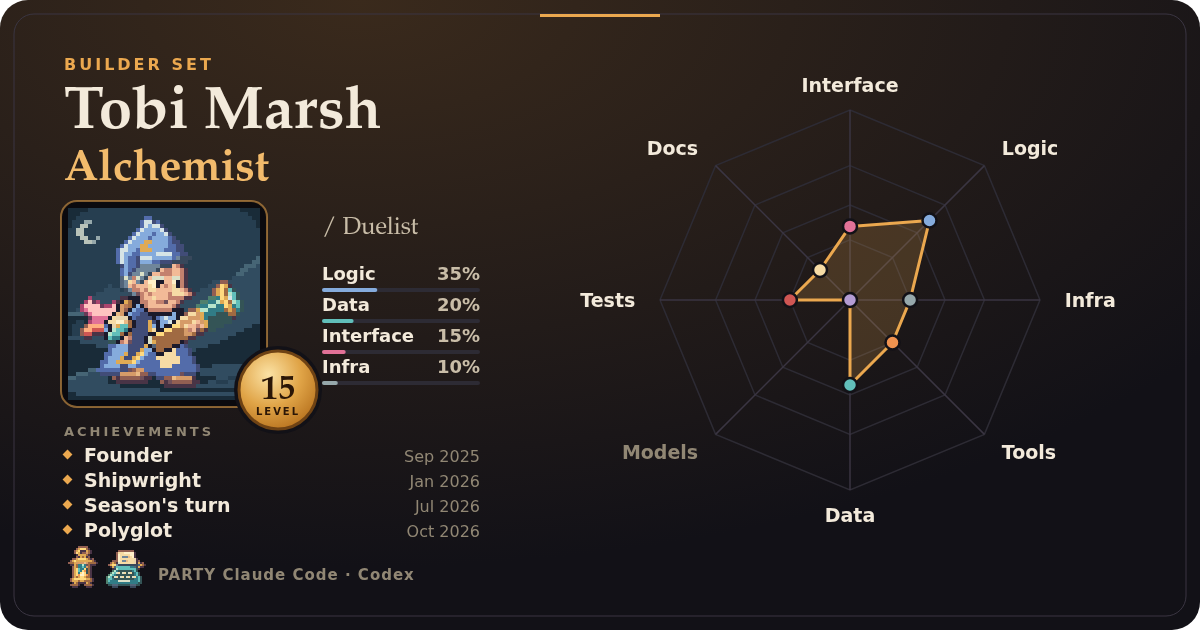
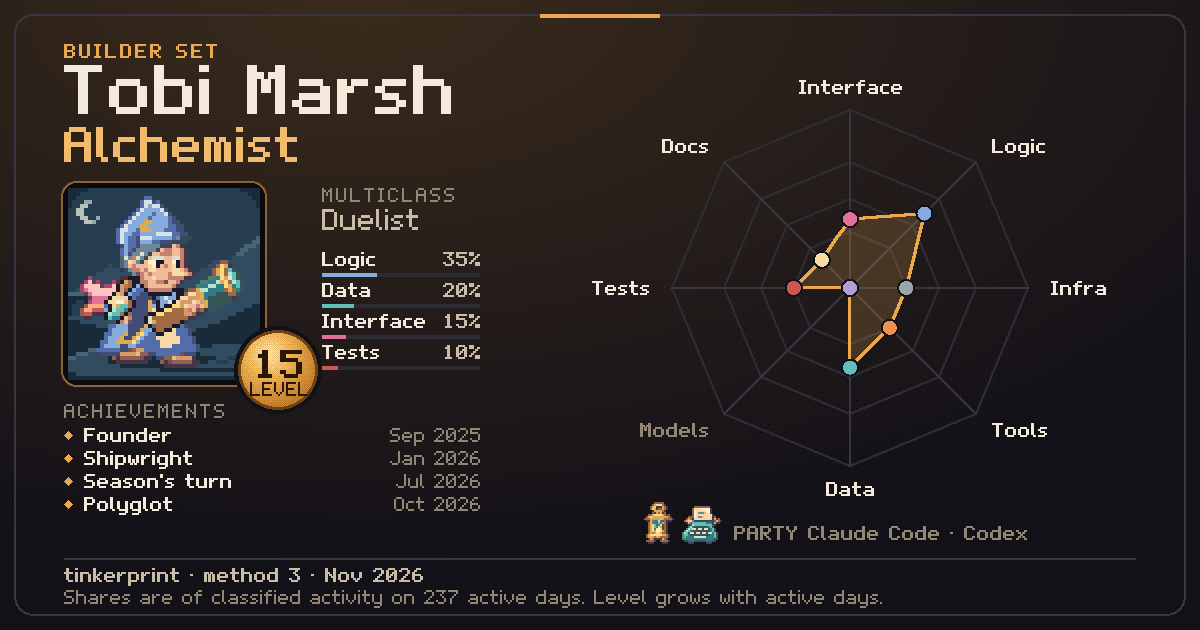
Show card.png in the README, and say what a card reveals
A Sharing section says which file to post, what build prints, what the
[card] options do and what a card reveals: the level is a band of
active days, the footer gives the season's exact count, and the
earliest achievement months show when you started. It describes the
sheet's share view. docs/card.png is now the demo's card.png. METHOD.md
lists both card files, the hide option, the tie rule and the audit's
PNG check.

Claude-Session: https://claude.ai/code/session_01BXxzvsAxGdctTVcthoTJy9

diff --git a/README.md b/README.md
@@ -12,9 +12,9 @@ A private sheet, one HTML file per profile. Here are the demo's two invented peo
 
 ![Sheet for Wren Aldous, an invented tinkerer, in the dark theme](docs/wren.png)
 
-And a share card that carries only what you allow:
+And a share card, `card.png`, that carries only what you allow:
 
-![Share card for Tobi Marsh: pixel portrait with level seal, class, rounded shares, achievements, party familiars and a radar](docs/card.png)
+![Share card for Tobi Marsh, an invented developer: Alchemist with Duelist as multiclass, level 15, a pixel portrait, top stats Logic 35%, Data 20%, Interface 15% and Tests 10%, four achievements by month, a radar, Claude Code and Codex in the party, and a footer naming tinkerprint](docs/card.png)
 
 ## Install
 
@@ -55,15 +55,46 @@ For your own sheet:
 ```
 tinkerprint init      # writes tinkerprint.toml, with your name and email from git config
                       # then edit it: your other emails, and one [[project]] per project
-tinkerprint build     # sheet.html, card.svg, sheet.json
-tinkerprint audit     # every text string in the built card.svg
+tinkerprint build     # sheet.html, card.png, card.svg, sheet.json
+tinkerprint audit     # every text string in the built card, before you share it
 ```
 
 `build` and `audit` use `./tinkerprint.toml` when `--profile` is left out. Keep the profile outside your repos: it lists your folders and emails. A misspelled key, like `[[projects]]`, stops the build and names the right one.
 
 `tinkerprint gallery --out art` writes one page with every class portrait of both sets, every familiar, icon and a few banners. The art is pixel art made in code from a pack of parts, and `--art-pack` swaps the pack. See [docs/ART.md](docs/ART.md).
 
-`build` takes `--season FROM:TO` to set the season and `--as-of DATE` to ignore anything later. Without `--out`, sheets go to a folder under `~/.local/share/tinkerprint/sheets/` named for the profile file. Each build writes `sheet.json`, `changes.json`, `sheet.html` and `card.svg`, plus `portrait.png` when the card is on. `python -m tinkerprint` works too. See `examples/profile.example.toml` for every profile option.
+`build` takes `--season FROM:TO` to set the season and `--as-of DATE` to ignore anything later. Without `--out`, sheets go to a folder under `~/.local/share/tinkerprint/sheets/` named for the profile file. Each build writes `sheet.json`, `changes.json` and `sheet.html`, plus `card.png`, `card.svg` and `portrait.png` when the card is on. `python -m tinkerprint` works too. See `examples/profile.example.toml` for every profile option.
+
+## Sharing
+
+Post `card.png`. Discord and most social sites show it as a preview, and they do not preview SVG. `card.svg` draws the same thing. `portrait.png` is the portrait alone, for an avatar.
+
+After each build, `shows` lists exactly what the card holds, and `alt` is a line of alt text to paste with it. Run `tinkerprint audit` before you share: it prints every string in `card.svg`, and checks that `card.png` holds image data only and draws the same fields.
+
+What a card reveals:
+
+- **Your name**, or a handle you choose.
+- **Your class and multiclass**, from the season's shares rounded to 5%.
+- **Your level**, a band of active days over all history: level 15 means 225 to 255 days. The footer gives the exact count of active days in the season.
+- **Achievement months.** The earliest ones show roughly when you started.
+- **Your party**: which coding agents you used, never how much.
+- **The season** of a season build, the month it was built, and the method version.
+
+Nothing else: no project names, exact dates, hours, repos, paths or emails, unless `show` adds dates or project names.
+
+The `[card]` table in the profile:
+
+```
+[card]
+enabled = true                # on by default, off by default when work = true
+name = "quillwork"            # a handle for the card. The sheet keeps your name.
+hide = ["party", "level", "achievements"]  # any of these stay off the card
+show = ["dates", "projects"]  # exact dates and up to three project names go on the card
+```
+
+Hiding the level also hides the day counts, since they give the same band away. `allow = true` still turns the card on for a work profile.
+
+People often screenshot the sheet instead. The sheet's **Share view** button hides everything the card would not show and leaves the workshop banner, the card's name, class, level and top stats. It works without script, with the keyboard and by touch.
 
 ## If your sheet is empty
 
@@ -95,9 +126,9 @@ The full rules are in [METHOD.md](METHOD.md). Every sheet prints the method vers
 
 ## Profiles
 
-One person can keep several sheets. A profile says which folders and identities belong to it, and what names the sheet shows. A day-job profile next to a personal one makes a good comparison. Mark it `work = true` and it never makes a share card unless you allow it.
+One person can keep several sheets. A profile says which folders and identities belong to it, and what names the sheet shows. A day-job profile next to a personal one makes a good comparison. Mark it `work = true` and it makes no share card unless you turn one on.
 
-Each build saves its sheet outside every repo, under `~/.local/share/tinkerprint/`. The next build compares with the newest saved sheet from an earlier date and writes `changes.json`. The sheet shows what changed since then, with a link to it under your name. When you changed the profile's projects, roots or identity in between, it says so, since the difference then includes history you added or removed. After an update that changes the method, it says the two sheets are not compared. `sheet.json` never depends on that history: the same logs, the same kept sessions from deleted logs and the same profile give the same file.
+Each build saves its sheet outside every repo, under `~/.local/share/tinkerprint/`. The next build compares with the newest saved sheet from an earlier date and writes `changes.json`. The sheet shows what changed since then, with a link to it under your name. When you changed the profile's projects, roots or identity in between, it says so, since the difference then includes history you added or removed. After an update that changes the method, it says the two sheets are not compared. `sheet.json` never depends on that history: the same logs, the same kept sessions from deleted logs and the same profile give the same file, apart from the month the card says it was built.
 
 ## What stays on disk
 

diff --git a/METHOD.md b/METHOD.md
@@ -165,12 +165,13 @@ Pictures follow class shape only: the class, its stats ranked by share rounded t
 
 ## Outputs
 
-- `sheet.json`: versioned, everything the pages draw. It depends on the events and the profile alone.
+- `sheet.json`: versioned, everything the pages draw. It depends on the events and the profile alone, apart from the month the card says it was built.
 - `changes.json`: what changed since an earlier sheet (see below). Kept apart so `sheet.json` never depends on history.
 - `sheet.html`: the private sheet. One file, no network: fonts inlined, a content policy that blocks every request.
-- `card.svg`: the share card, built from an allowlist only: name, set, class, level, stat shares rounded to 5%, achievement titles with month dates, and the party's harness names. Its portrait comes from the set, class, multiclass and rounded shares, and draws no text. Hours, weekdays, exact dates, streak ranges, project names and token totals stay off unless the profile turns them on. A profile marked `work = true` never goes on a card unless it says so. The card's chart follows its rounded shares: fewer than three nonzero rounded shares draw ranked bars, so no stat under 5% shows through.
+- `card.png` and `card.svg`: the share card, drawn from an allowlist only: the name or the `[card] name` handle, set, class, multiclass, level, the season's active and classified day counts, stat shares rounded to 5%, achievement titles with month dates, the party's harness names, the method version, the build month and the season. `[card] hide` leaves out the party, the level with the day counts, or the achievements. Hours, weekdays, exact dates, streak ranges, project names and token totals stay off unless the profile turns them on. Both files draw the same fields through one selection. On a tie in rounded shares, the stats the class and multiclass are named for come first among the top stats. The portrait comes from the set, class, multiclass and rounded shares, and draws no text. A profile marked `work = true` makes no card unless `[card] enabled = true`, and any profile can turn its card off. The card's chart follows its rounded shares: fewer than three nonzero rounded shares draw ranked bars, so no stat under 5% shows through. `card.png` holds image data only, with no text chunks. The SVG's title is alt text from the same fields.
 - `portrait.png`: the card's portrait as a PNG, written only when the card is on, from the card's fields alone.
-- `audit`: prints every text string in the `card.svg` on disk, in document order. It reads nothing else.
+- `audit`: prints every text string in the `card.svg` on disk, in document order. It checks that `card.png` holds image data only and draws exactly the card fields in `sheet.json`, the same fields that draw `card.svg`.
+- **Share view**: a switch on the sheet, made with CSS alone, that hides everything the card would not show.
 - **What changed**: each successful build saves its sheet to a history kept per profile file and season, named by its as-of date (the `--as-of` date, or the build day). A build compares against the newest saved sheet with an earlier as-of date and names that date. The comparison covers points since then, level-ups, a new class, share drift, party changes and new achievements. A build with an earlier as-of date never compares against a later sheet.
   - The saved copy also keeps short digests of the profile's projects, roots, identity, harnesses, and time zone and rollover. When any differ from the earlier sheet's, "what changed" names them and says the differences include history newly added or removed, not only new activity. The digests stay in the saved copy, never in `sheet.json`.
   - When the earlier sheet was made by another method version, "what changed" says so and compares nothing, since the rules changed between them.
